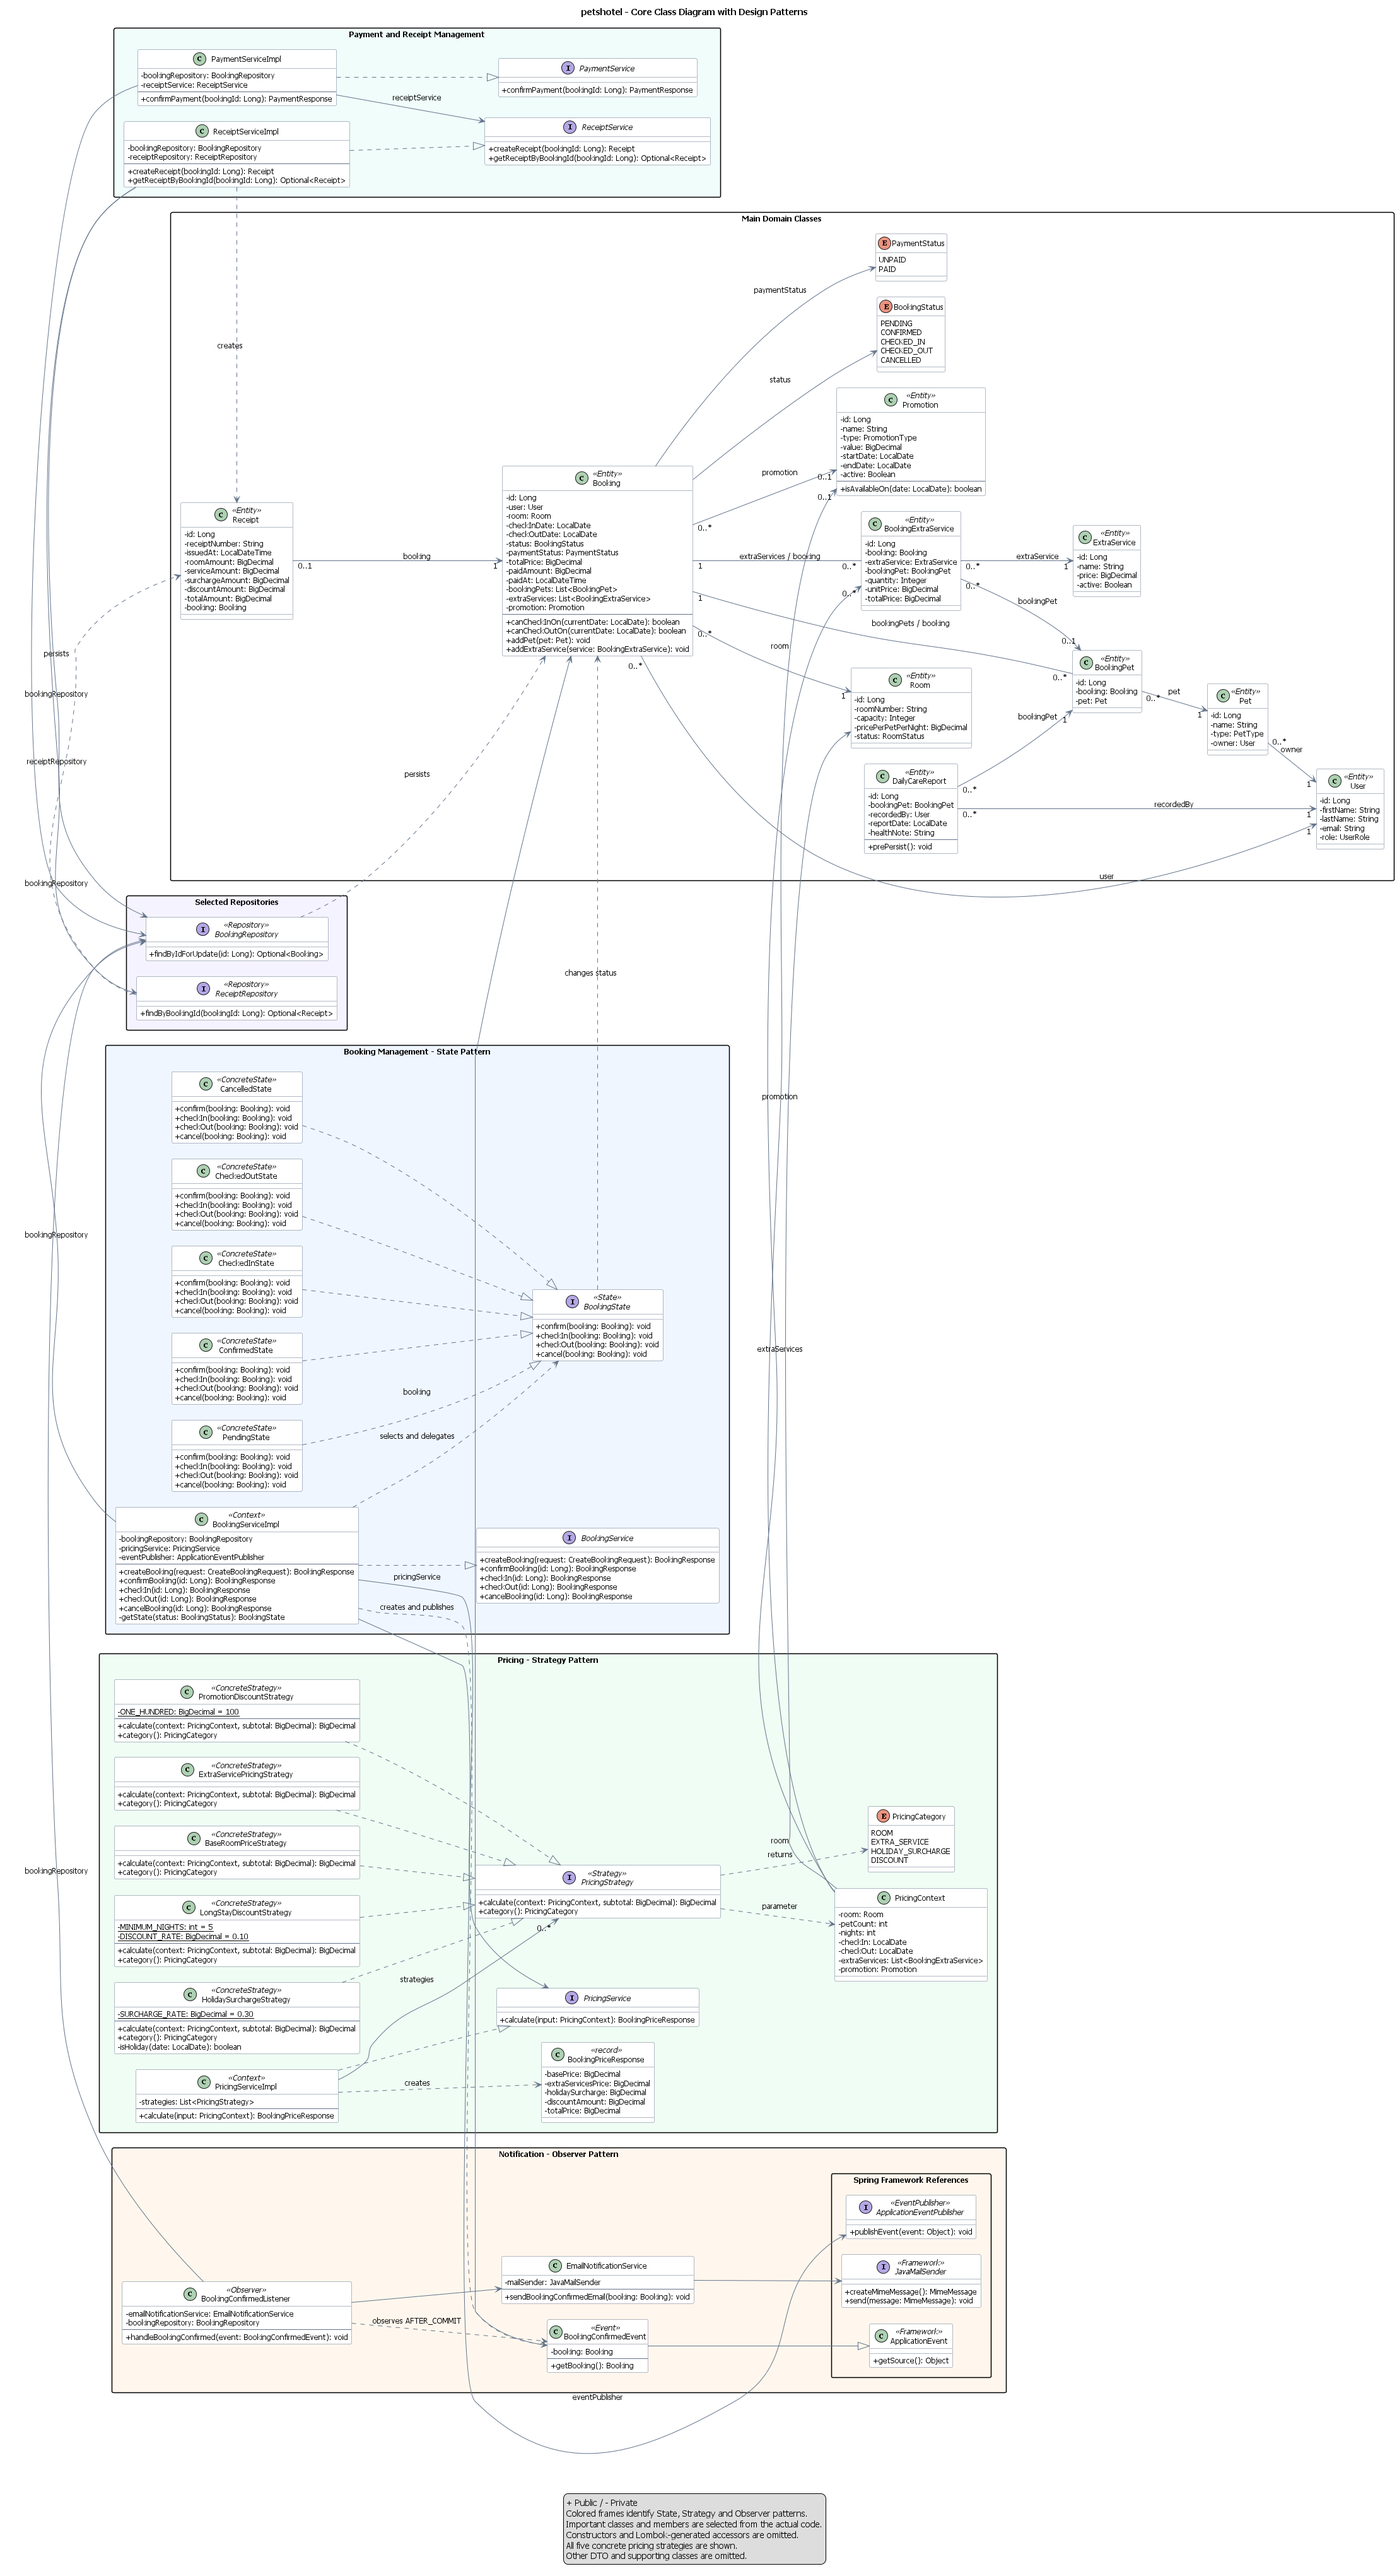
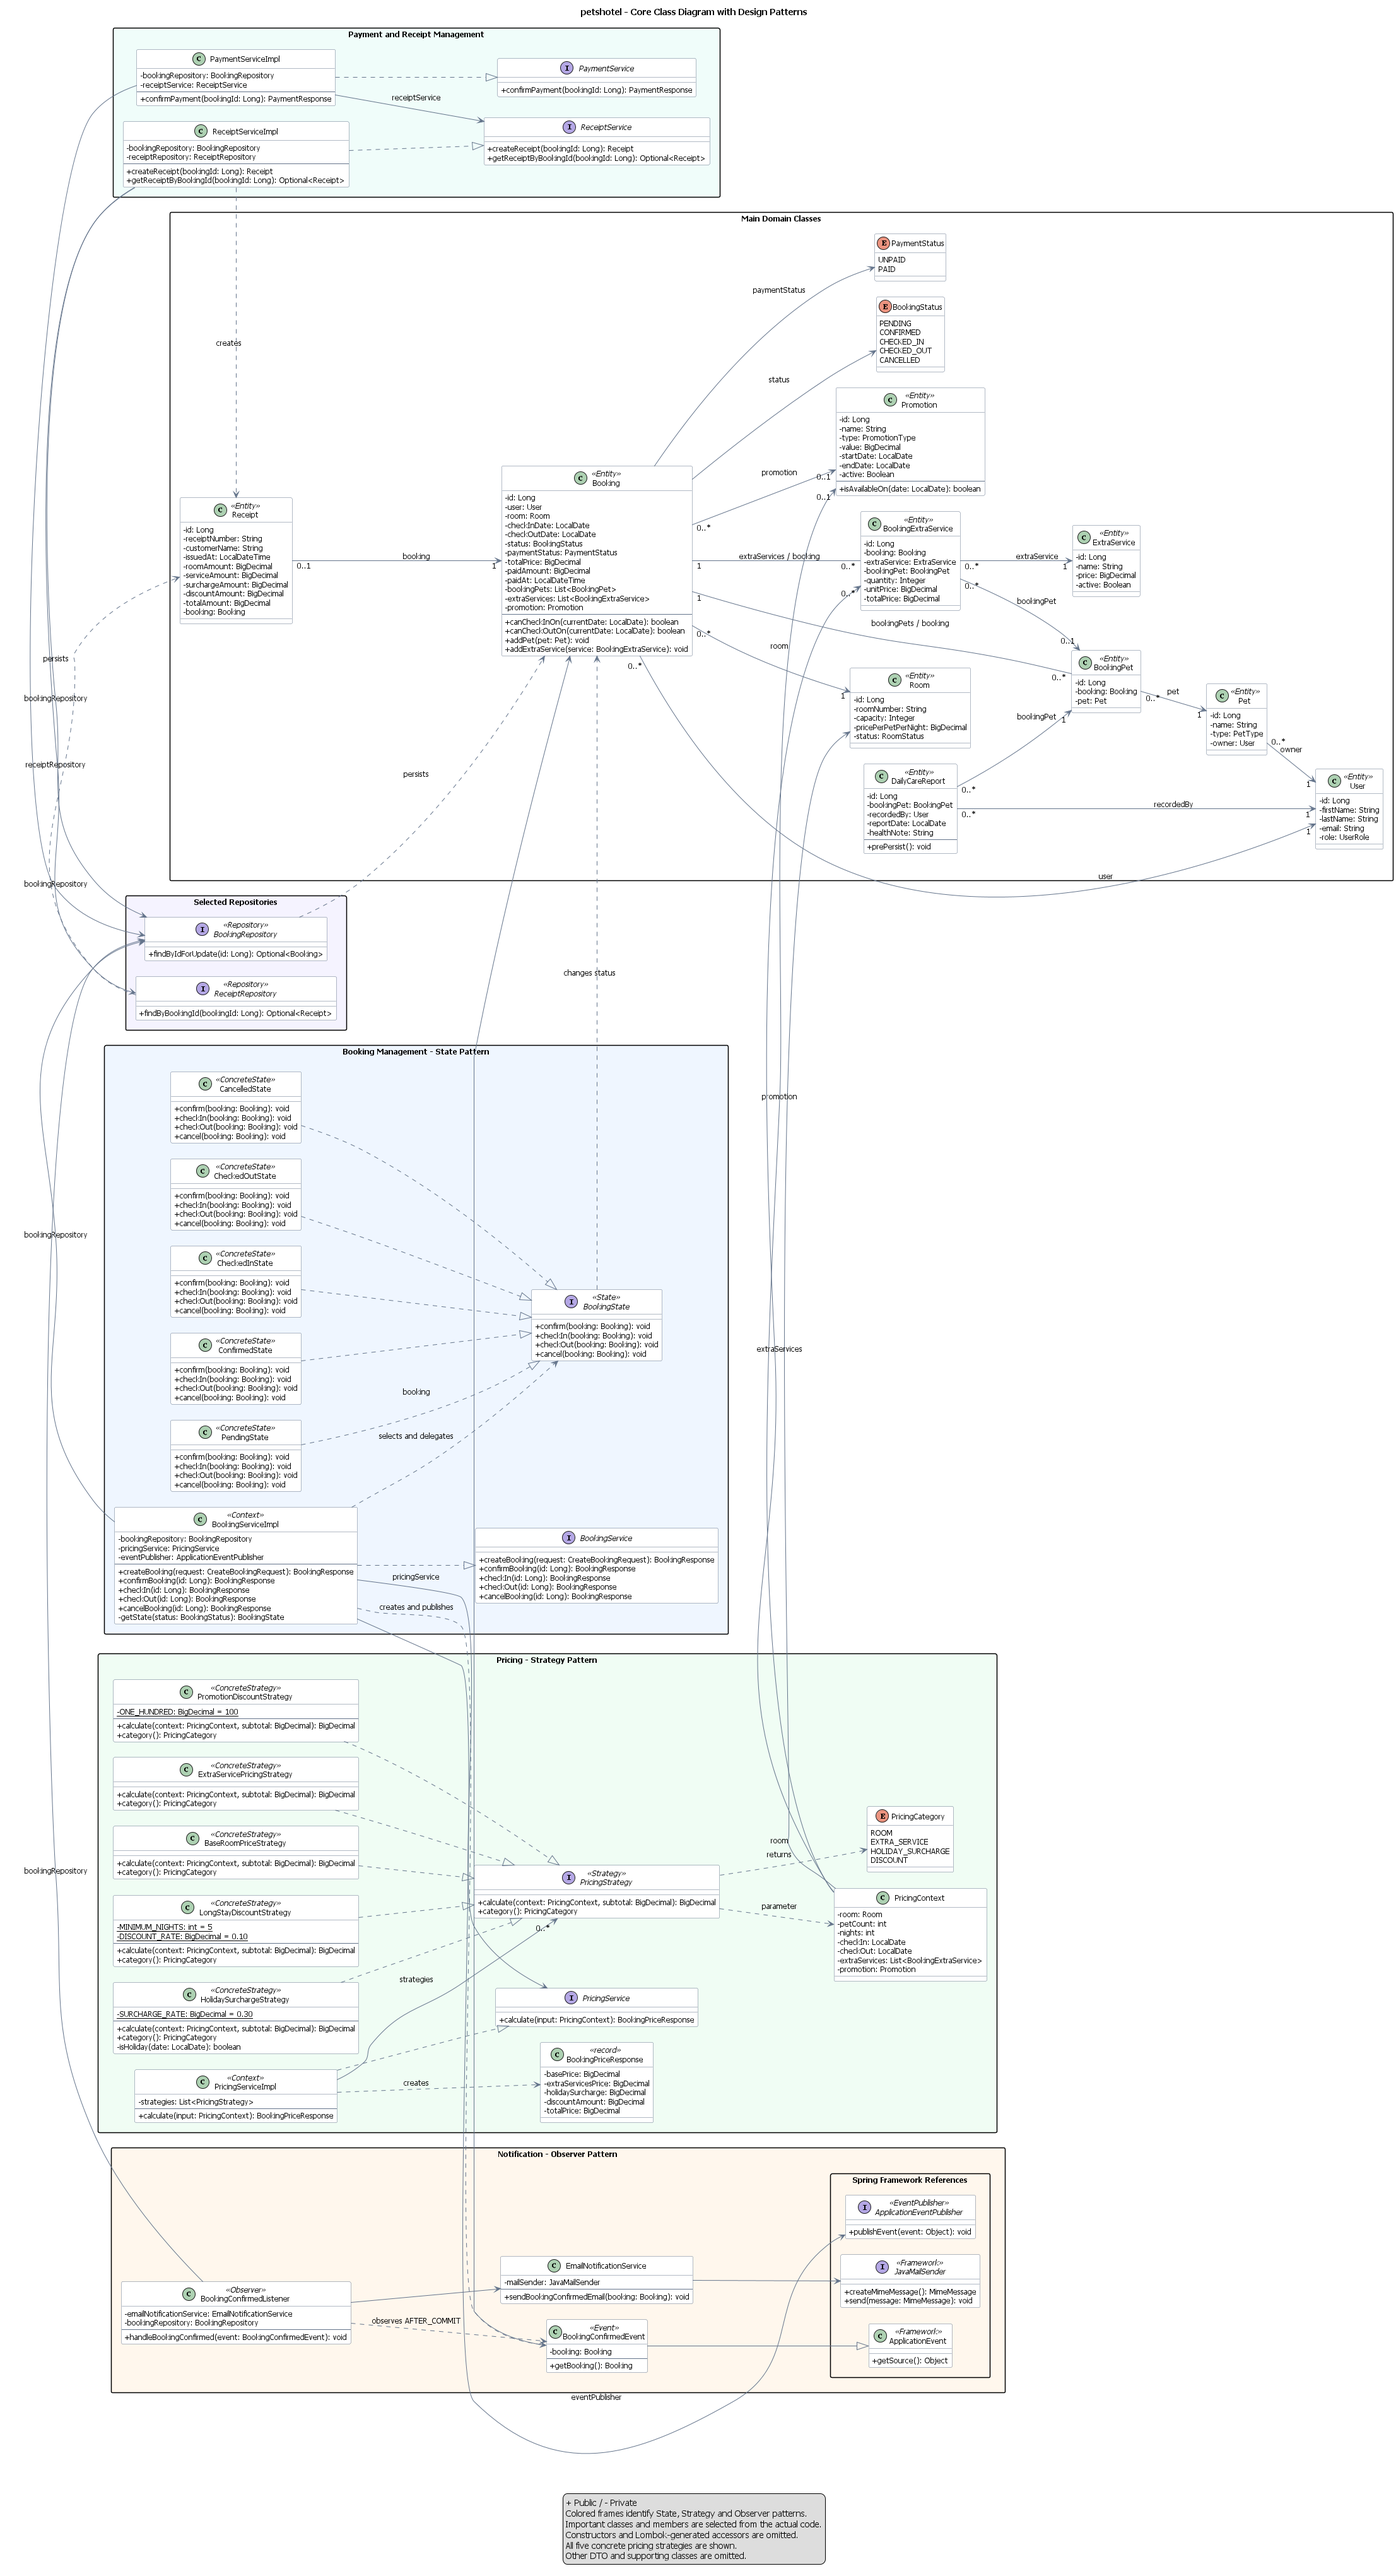
docs: sync receipt documentation and class diagram with V3

diff --git a/doc/data-dictionary/receipts.md b/doc/data-dictionary/receipts.md
@@ -6,6 +6,7 @@
 |---|---|---|---|---|---|
 | `id` | BIGINT | ไม่ได้ | Primary Key, สร้างค่าแบบ IDENTITY | รหัสใบเสร็จ | `1` |
 | `receipt_number` | VARCHAR(255) | ไม่ได้ | UNIQUE | เลขที่ใบเสร็จ สร้างจาก `REC-` ตามด้วย UUID | `REC-550e8400-e29b-41d4-a716-446655440000` |
+| `customer_name` | VARCHAR(255) | ได้ | — | ชื่อและนามสกุลลูกค้า ณ วันที่ออกใบเสร็จ เก็บเป็น snapshot เพื่อไม่เปลี่ยนตามข้อมูลโปรไฟล์ภายหลัง | `นาเดีย คิดอ่าน` |
 | `issued_at` | TIMESTAMP WITHOUT TIME ZONE | ไม่ได้ | — | วันเวลาที่ออกใบเสร็จ | `2026-10-04 15:30:00` |
 | `room_amount` | NUMERIC(10,2) | ได้ | ทศนิยม 2 ตำแหน่ง | ค่าห้องพักที่บันทึกไว้ในการจอง หน่วยเป็นบาท | `1500.00` |
 | `service_amount` | NUMERIC(10,2) | ได้ | ทศนิยม 2 ตำแหน่ง | ค่าบริการเสริมที่บันทึกไว้ในการจอง หน่วยเป็นบาท | `500.00` |
@@ -29,7 +30,10 @@
 - หากพบใบเสร็จของการจองอยู่แล้ว Service จะคืนใบเสร็จเดิม โดยไม่สร้างใบใหม่และไม่เปลี่ยนเลขที่หรือวันเวลาที่ออกใบเสร็จ
 - หากต้องสร้างใบเสร็จใหม่ การจองต้องมี `roomAmount`, `serviceAmount`, `surchargeAmount` และ `discountAmount` ครบ
 - แม้ Entity อนุญาตให้จำนวนเงินทั้งสี่ช่องข้างต้นเป็น `NULL` แต่ขั้นตอนสร้างใบเสร็จผ่าน Service ต้องมีข้อมูลครบ โดยค่าที่ไม่มีค่าใช้จ่ายสามารถเป็น 0 ได้
-- เลขที่ใบเสร็จสร้างด้วย `"REC-" + UUID.randomUUID()` และวันเวลาที่ออกกำหนดด้วย `LocalDateTime.now()`
+- เลขที่ใบเสร็จสร้างด้วย `"REC-" + UUID.randomUUID()` และวันเวลาที่ออกกำหนดด้วย `LocalDateTime.now(ZoneId.of("Asia/Bangkok"))`
+- เมื่อสร้างใบเสร็จใหม่ Service นำชื่อและนามสกุลจากผู้ใช้เจ้าของการจองมาตัดช่องว่างหัวท้าย แล้วบันทึกใน `customer_name` เป็นชื่อ ณ วันที่ออกใบเสร็จ การแก้ชื่อในโปรไฟล์ภายหลังไม่เปลี่ยนชื่อนี้โดยอัตโนมัติ
+- `Receipt.customerName` กำหนด `updatable = false` เพื่อไม่รวมคอลัมน์นี้ในคำสั่ง UPDATE ที่ JPA สร้างสำหรับ Entity นี้
+- คอลัมน์ `customer_name` เพิ่มผ่าน Flyway `V3__add_receipt_customer_name.sql` และอนุญาตให้เป็น NULL โดย migration นี้ไม่ได้เติมชื่อย้อนหลังให้ใบเสร็จเดิม
 - Service คัดลอกค่าห้อง บริการเสริม ค่าธรรมเนียมเพิ่มเติม และส่วนลดจากข้อมูลราคาที่บันทึกไว้ในการจอง
 - `total_amount` กำหนดจาก `Booking.paidAmount` โดย Service ไม่คำนวณราคาการจองใหม่ขณะออกใบเสร็จ
 - การแก้ราคาห้อง บริการเสริม หรือโปรโมชันภายหลังไม่เปลี่ยนจำนวนเงินที่คัดลอกไว้ในใบเสร็จโดยอัตโนมัติ
@@ -55,5 +59,9 @@
 
 ## แหล่งอ้างอิงในโค้ด
 
-`Receipt`, `Booking`, `PaymentStatus`, `ReceiptServiceImpl`,
+`Receipt`, `Booking`, `User`, `PaymentStatus`, `ReceiptServiceImpl`,
 `PaymentServiceImpl`, `ReceiptRepository`, `BookingRepository`
+
+โครงสร้างตารางอ้างอิงจาก
+`code/src/main/resources/db/migration/V1__create_tables.sql`
+และ `code/src/main/resources/db/migration/V3__add_receipt_customer_name.sql`
